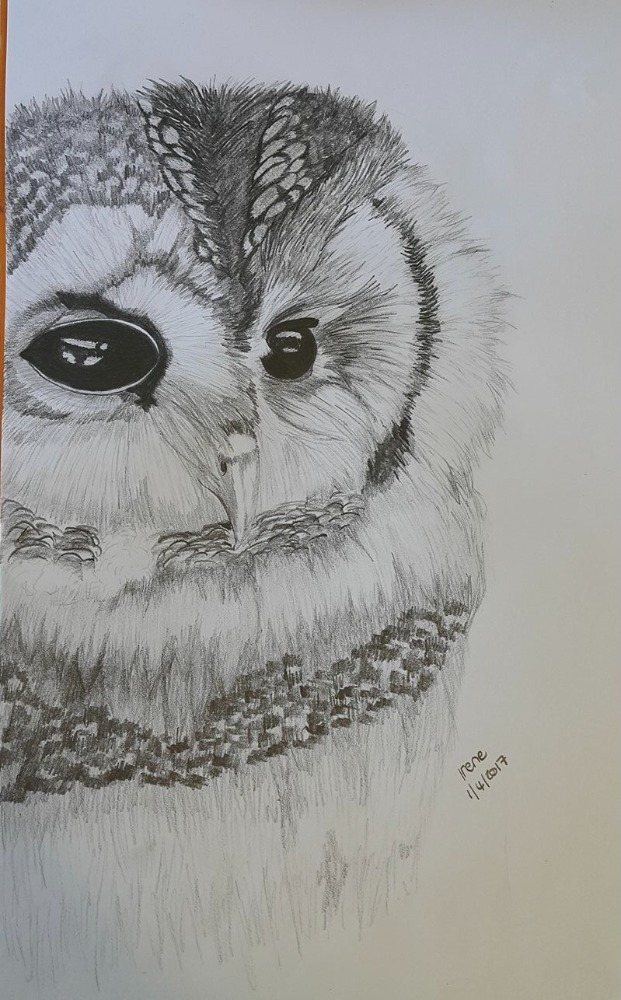
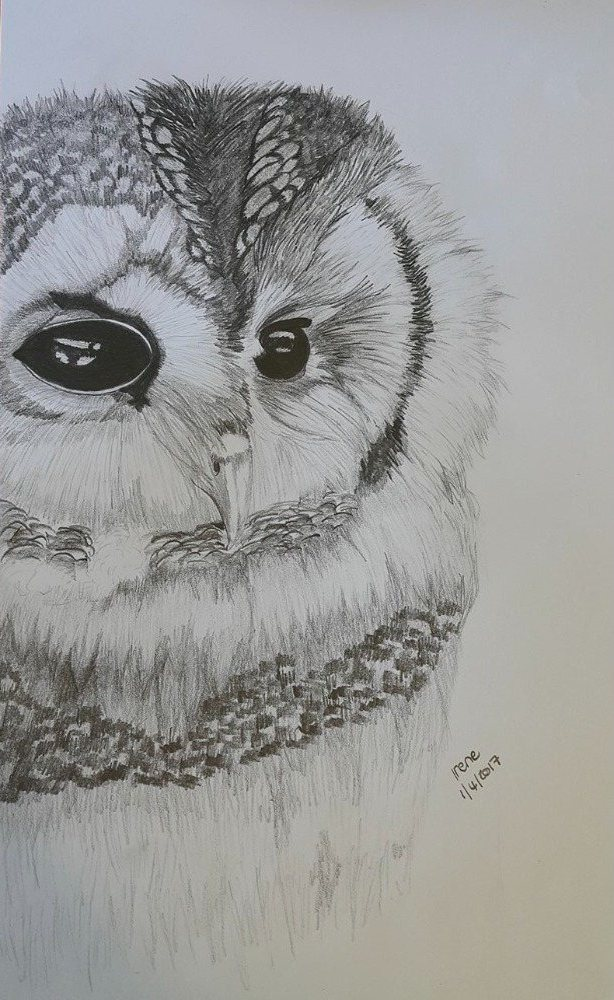
Plate XIV: the photo's orange edge cropped off
The owl still carried a 7px orange-brown strip down its left edge, the
sketchbook's edge or the table showing past the paper, the same thing
cropped off Plates XI to XIII. The strip is gone (621x1000 to 614x1000,
re-encoded with the original's own quality tables so the file stays
the size it was); GALLERY_SIZES follows and the file's provenance note
says what was done. The feathers run off that edge of the photograph,
so a 7px sliver of them went with the strip; nothing else is lost.

Claude-Session: https://claude.ai/code/session_01XUmt6vFxAdG1PUjwhavU8Z

diff --git a/gallery-data.js b/gallery-data.js
@@ -63,7 +63,7 @@ window.GALLERY_SIZES = {
   "Category 3/download1.jpg": [482, 752],
   "Category 3/download2.jpg": [664, 965],
   "Category 3/download3.jpg": [528, 840],
-  "Category 3/download4.jpg": [621, 1000],
+  "Category 3/download4.jpg": [614, 1000],
   "Category 3/download 4.jpg": [678, 1000],
 };
 
